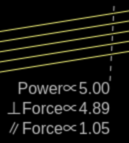
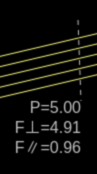
Simplify notations for the detector tool

diff --git a/simulator/index.js b/simulator/index.js
@@ -3347,13 +3347,13 @@ var canvasPainter = {
       
       var accuracy = -Math.floor(Math.log10(totalTruncation));
       if (totalTruncation > 0 && accuracy <= 2) {
-        var str1 = "Power∝" + obj.power.toFixed(accuracy) + "±" + totalTruncation.toFixed(accuracy);
-        var str2 = "⊥Force∝" + obj.normal.toFixed(accuracy) + "±" + totalTruncation.toFixed(accuracy);
-        var str3 = "∥Force∝" + obj.shear.toFixed(accuracy) + "±" + totalTruncation.toFixed(accuracy);
+        var str1 = "P=" + obj.power.toFixed(accuracy) + "±" + totalTruncation.toFixed(accuracy);
+        var str2 = "F⊥=" + obj.normal.toFixed(accuracy) + "±" + totalTruncation.toFixed(accuracy);
+        var str3 = "F∥=" + obj.shear.toFixed(accuracy) + "±" + totalTruncation.toFixed(accuracy);
       } else {
-        var str1 = "Power∝" + obj.power.toFixed(2);
-        var str2 = "⊥Force∝" + obj.normal.toFixed(2);
-        var str3 = "∥Force∝" + obj.shear.toFixed(2);
+        var str1 = "P=" + obj.power.toFixed(2);
+        var str2 = "F⊥=" + obj.normal.toFixed(2);
+        var str3 = "F∥=" + obj.shear.toFixed(2);
       }
 
       ctx.font = '16px Arial';

diff --git a/simulator/locales/en.js b/simulator/locales/en.js
@@ -357,7 +357,7 @@ locales["en"] = {
     "message": "A protractor defined from center and another point for the zero direction. The scale is in degrees. (Drag or click to create.)"
   },
   "tool_power_popover": {
-    "message": "A tool for measuring the power (rate of energy flow) and forces (rate of prependicular and parallel momentum flow) through a line segment. (Drag or click to create the line segment.)"
+    "message": "A tool for measuring the rate of energy flow (P), the rate of prependicular momentum flow (F⊥), and the rate of parallel momentum flow (F∥) through a line segment. (Drag or click to create the line segment.) The units are arbitrary."
   },
   "tool_text_popover": {
     "message": "A text label."

diff --git a/simulator/locales/zh_CN.js b/simulator/locales/zh_CN.js
@@ -351,7 +351,7 @@ locales["zh-CN"] = {
     "message": "指定圆心和圆周上一点作为零度位置。刻度单位为度。（拖曳或点击以创建。）"
   },
   "tool_power_popover": {
-    "message": "测量通过一线段的功率（能量流率）与力（垂直与水平动量流率）。（拖曳或点击以创建该线段。）"
+    "message": "测量通过一线段的能量流率(P)、垂直动量流率(F⊥)与水平动量流率(F∥)。（拖曳或点击以创建该线段。）单位为任意。"
   },
   "tool_text_popover": {
     "message": "文字标签。"

diff --git a/simulator/locales/zh_TW.js b/simulator/locales/zh_TW.js
@@ -351,7 +351,7 @@ locales["zh-TW"] = {
     "message": "指定圓心和圓周上一點作為零度位置。刻度單位為度。（拖曳或點擊以創建。）"
   },
   "tool_power_popover": {
-    "message": "測量通過一線段的功率（能量流率）與力（垂直與水平動量流率）。（拖曳或點擊以創建該線段。）"
+    "message": "測量通過一線段的能量流率(P)、垂直動量流率(F⊥)與水平動量流率(F∥)。（拖曳或點擊以創建該線段。）單位為任意。"
   },
   "tool_text_popover": {
     "message": "文字標籤。"
